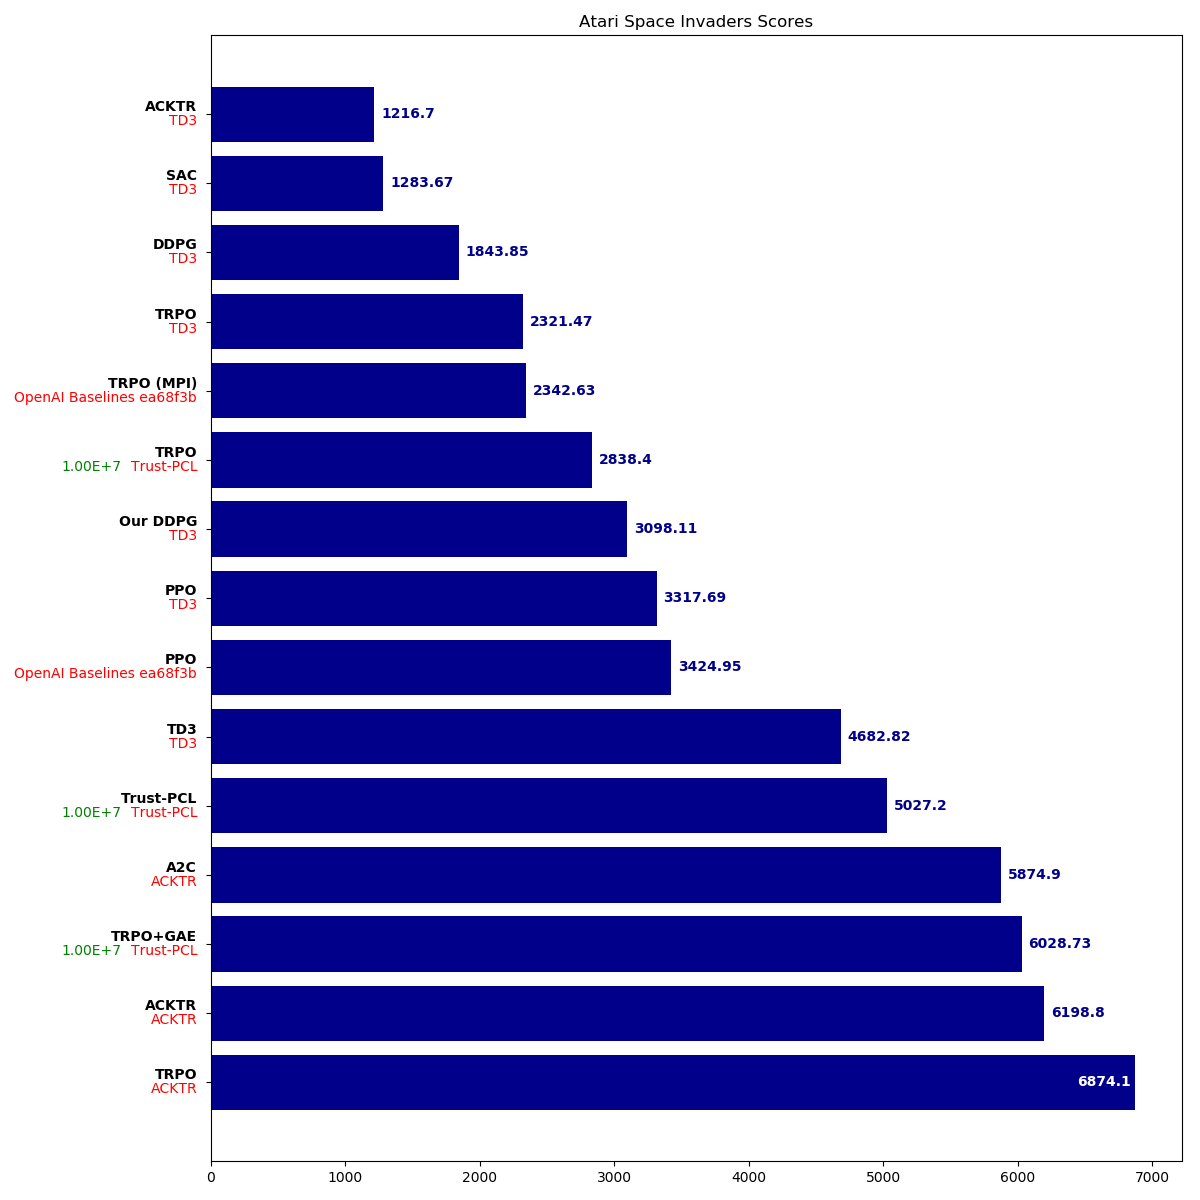
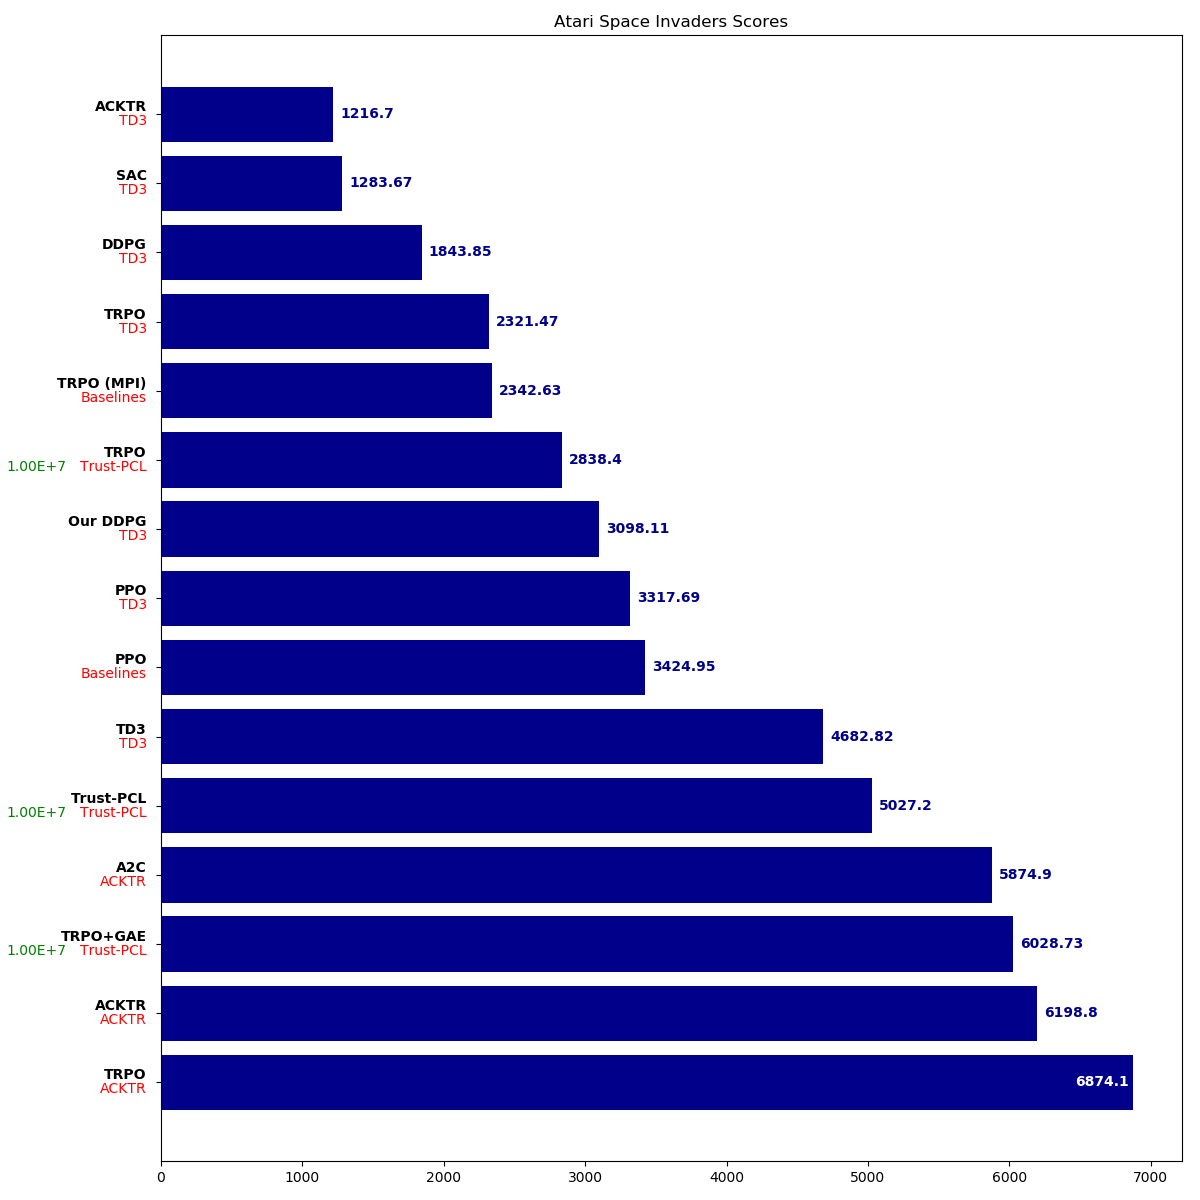
Change baselines nickname

diff --git a/rldb/db/source__openai_baselines_cbd21ef/__init__.py b/rldb/db/source__openai_baselines_cbd21ef/__init__.py
@@ -11,7 +11,7 @@ from .algo__trpo_mpi import entries as trpo_mpi_entries
 source = {
     #  BASICS
     "source-title": "OpenAI Baselines cbd21ef",
-    "source-nickname": "OpenAI Baselines cbd21ef",
+    "source-nickname": "Baselines",
     "source-authors": [
         "Prafulla Dhariwal",
         "Christopher Hesse",

diff --git a/rldb/db/source__openai_baselines_ea68f3b/__init__.py b/rldb/db/source__openai_baselines_ea68f3b/__init__.py
@@ -6,7 +6,7 @@ from .algo__ppo2 import entries as ppo2_entries
 source = {
     #  BASICS
     "source-title": "OpenAI Baselines ea68f3b",
-    "source-nickname": "OpenAI Baselines ea68f3b",
+    "source-nickname": "Baselines",
     "source-authors": [
         "Prafulla Dhariwal",
         "Christopher Hesse",
